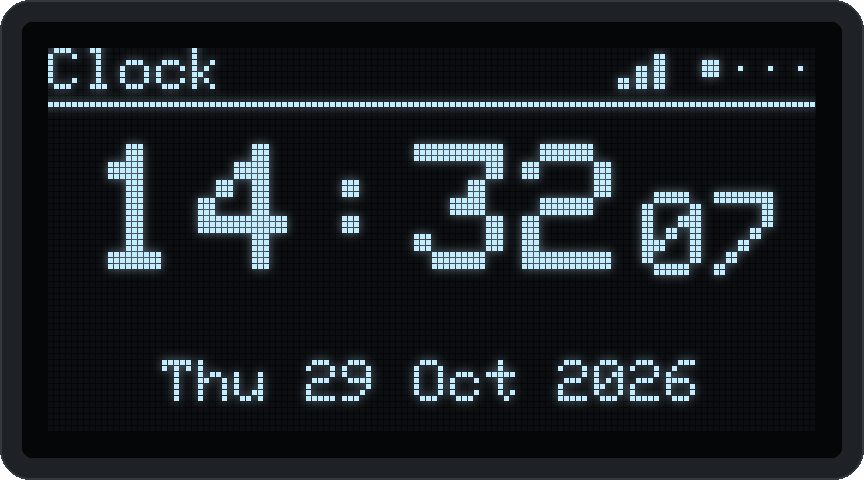
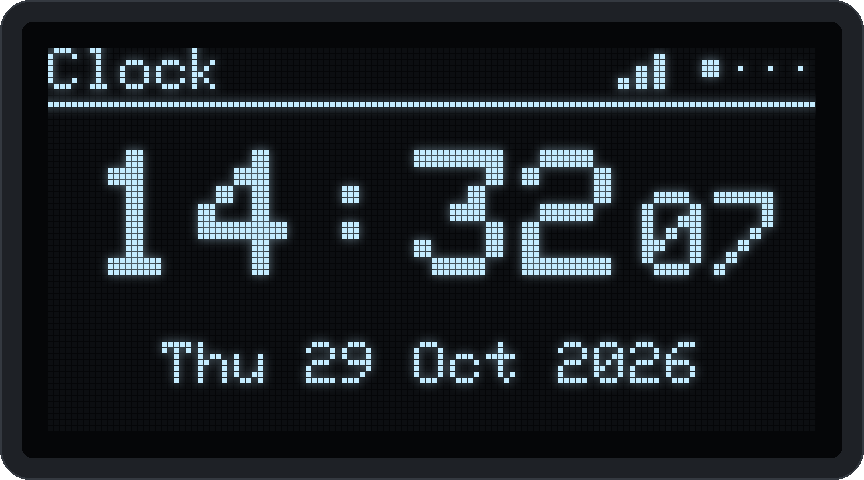
Tidy the screen layouts and redraw the images

diff --git a/deskpal/screens.cpp b/deskpal/screens.cpp
@@ -11,6 +11,7 @@ namespace {
 // Text size N scales that by N.
 constexpr int16_t kCharW = 6;
 constexpr int16_t kBodyTop = 12;  // first pixel row below the header line
+constexpr int16_t kBodyMiddle = 33;  // y for one line of text centred below the header
 
 int16_t textWidth(const char* text, uint8_t size) {
   // The last character's spacing column is empty, so leave it out.
@@ -26,6 +27,14 @@ void printAt(Adafruit_SSD1306& d, int16_t x, int16_t y, const char* text, uint8_
 void printCentered(Adafruit_SSD1306& d, int16_t y, const char* text, uint8_t size = 1) {
   int16_t x = (SCREEN_WIDTH - textWidth(text, size)) / 2;
   printAt(d, x < 0 ? 0 : x, y, text, size);
+}
+
+// Text in a rounded box, centred across the screen. The box is 13 px tall.
+void drawLabelBox(Adafruit_SSD1306& d, int16_t y, const char* text) {
+  const int16_t w = textWidth(text, 1) + 10;
+  const int16_t x = (SCREEN_WIDTH - w) / 2;
+  d.drawRoundRect(x, y, w, 13, 3, SSD1306_WHITE);
+  printAt(d, x + 5, y + 3, text);
 }
 
 // Temperatures are kept in Celsius and only converted for display.
@@ -131,8 +140,9 @@ void drawConnecting(Adafruit_SSD1306& d) {
   char ssid[22];
   toFontText(settings.wifiSsid, ssid, sizeof(ssid));
   printCentered(d, 34, ssid);
-  // Dots that grow and reset, so it is obvious the device has not frozen.
-  static const char* const kDots[] = {"", ".", "..", "..."};
+  // Dots that grow and reset, so it is obvious the device has not frozen. The
+  // spaces keep the first dot in one place instead of sliding as the text widens.
+  static const char* const kDots[] = {"   ", ".  ", ".. ", "..."};
   printCentered(d, 46, kDots[(millis() / 400) % 4]);
 }
 
@@ -223,7 +233,7 @@ void drawClockScreen(Adafruit_SSD1306& d, const StatusInfo& s, const tm* localTi
 
   if (localTime == nullptr) {
     if (!s.wifiConnected) drawConnecting(d);
-    else printCentered(d, 30, "Syncing time...");
+    else printCentered(d, kBodyMiddle, "Syncing time...");
     return;
   }
 
@@ -239,10 +249,10 @@ void drawClockScreen(Adafruit_SSD1306& d, const StatusInfo& s, const tm* localTi
   strftime(seconds, sizeof(seconds), "%S", localTime);
   strftime(date, sizeof(date), "%a %d %b %Y", localTime);
 
-  printAt(d, 7, 16, hhmm, 3);      // big HH:MM
-  printAt(d, 99, 24, seconds, 2);  // smaller seconds, bottom-aligned with it
-  if (CLOCK_12H) printAt(d, 105, 15, localTime->tm_hour < 12 ? "AM" : "PM");  // above the seconds
-  printCentered(d, 52, date);
+  printAt(d, 7, 17, hhmm, 3);      // big HH:MM, 21 px tall
+  printAt(d, 99, 24, seconds, 2);  // smaller seconds, 14 px tall, on the same baseline
+  if (CLOCK_12H) printAt(d, 105, 14, localTime->tm_hour < 12 ? "AM" : "PM");  // above the seconds
+  printCentered(d, 49, date);
 }
 
 void drawWeatherScreen(Adafruit_SSD1306& d, const StatusInfo& s, const WeatherData& w,
@@ -253,15 +263,15 @@ void drawWeatherScreen(Adafruit_SSD1306& d, const StatusInfo& s, const WeatherDa
     if (!s.wifiConnected) {
       drawConnecting(d);
     } else if (w.lastFetchFailed) {
-      printCentered(d, 24, "Weather unavailable");
-      printCentered(d, 36, "retrying soon");
+      printCentered(d, kBodyMiddle - 6, "Weather unavailable");
+      printCentered(d, kBodyMiddle + 6, "retrying soon");
     } else {
-      printCentered(d, 30, "Loading weather...");
+      printCentered(d, kBodyMiddle, "Loading weather...");
     }
     return;
   }
 
-  drawWeatherIcon(d, 2, 14, weatherIcon(w.code));
+  drawWeatherIcon(d, 2, 19, weatherIcon(w.code));  // centred on the text to its right
 
   char temp[10];
   snprintf(temp, sizeof(temp), "%.1f", displayTemp(w.tempC));
@@ -279,7 +289,7 @@ void drawWeatherScreen(Adafruit_SSD1306& d, const StatusInfo& s, const WeatherDa
   char line[24];
   formatAge(nowMs - w.updatedAtMs, age, sizeof(age));
   snprintf(line, sizeof(line), w.lastFetchFailed ? "! last ok %s" : "updated %s", age);
-  printAt(d, 0, 55, line);  // not 56: descenders would reach the last row, which shiftFrame() may push off
+  printCentered(d, 55, line);  // not 56: descenders would reach the last row, which shiftFrame() may push off
 }
 
 void drawRoomScreen(Adafruit_SSD1306& d, const StatusInfo& s, const RoomReading& r,
@@ -320,10 +330,7 @@ void drawRoomScreen(Adafruit_SSD1306& d, const StatusInfo& s, const RoomReading&
   } else {
     strlcpy(label, comfortLabel(r.tempC, r.humidity), sizeof(label));
   }
-  const int16_t boxW = textWidth(label, 1) + 10;
-  const int16_t boxX = (SCREEN_WIDTH - boxW) / 2;
-  d.drawRoundRect(boxX, 46, boxW, 13, 3, SSD1306_WHITE);
-  printAt(d, boxX + 5, 49, label);
+  drawLabelBox(d, 46, label);
 }
 
 void drawGithubScreen(Adafruit_SSD1306& d, const StatusInfo& s, const GithubData& g,
@@ -336,10 +343,10 @@ void drawGithubScreen(Adafruit_SSD1306& d, const StatusInfo& s, const GithubData
     if (!s.wifiConnected) {
       drawConnecting(d);
     } else if (g.error[0] != '\0') {
-      printCentered(d, 24, "GitHub error:");
-      printCentered(d, 36, g.error);
+      printCentered(d, kBodyMiddle - 6, "GitHub error:");
+      printCentered(d, kBodyMiddle + 6, g.error);
     } else {
-      printCentered(d, 30, "Loading GitHub...");
+      printCentered(d, kBodyMiddle, "Loading GitHub...");
     }
     return;
   }
@@ -359,24 +366,24 @@ void drawGithubScreen(Adafruit_SSD1306& d, const StatusInfo& s, const GithubData
   char total[8];
   if (g.hasCounts) snprintf(total, sizeof(total), "%u", g.total);
   else strlcpy(total, "-", sizeof(total));
-  printAt(d, panelX, 14, total);
-  printAt(d, panelX, 24, "total");
+  printAt(d, panelX, kBodyTop, total);  // level with the top of the grid
+  printAt(d, panelX, kBodyTop + 10, "total");
 
   char age[8];
   char line[10];
   formatAgeShort(nowMs - g.updatedAtMs, age, sizeof(age));
   snprintf(line, sizeof(line), g.lastFetchFailed ? "!%s" : "%s", age);
-  printAt(d, panelX, 54, line);
+  printAt(d, panelX, 54, line);  // level with the bottom of the grid
 }
 
 void drawPortalScreen(Adafruit_SSD1306& d, const char* apName) {
   beginFrame(d);
   printAt(d, 0, 0, "Setup");
   d.drawFastHLine(0, 9, SCREEN_WIDTH, SSD1306_WHITE);
-  printCentered(d, 14, "Join this Wi-Fi:");
-  char name[22];
+  printCentered(d, 13, "Join this Wi-Fi:");
+  char name[20];  // 19 characters is as wide as the box can get
   strlcpy(name, apName, sizeof(name));
-  printCentered(d, 26, name);
+  drawLabelBox(d, 23, name);
   printCentered(d, 40, "then open");
   printCentered(d, 50, "192.168.4.1");
 }
@@ -397,6 +404,7 @@ void shiftFrame(Adafruit_SSD1306& d, int8_t dx, int8_t dy) {
 void drawToast(Adafruit_SSD1306& d, const char* text) {
   const int16_t w = textWidth(text, 1) + 12;
   const int16_t x = (SCREEN_WIDTH - w) / 2;
+  d.fillRect(x - 2, 22, w + 4, 20, SSD1306_BLACK);  // a dark edge, so it stands clear of the big digits
   d.fillRoundRect(x, 24, w, 16, 4, SSD1306_WHITE);
   d.setTextColor(SSD1306_BLACK);
   printAt(d, x + 6, 28, text);
